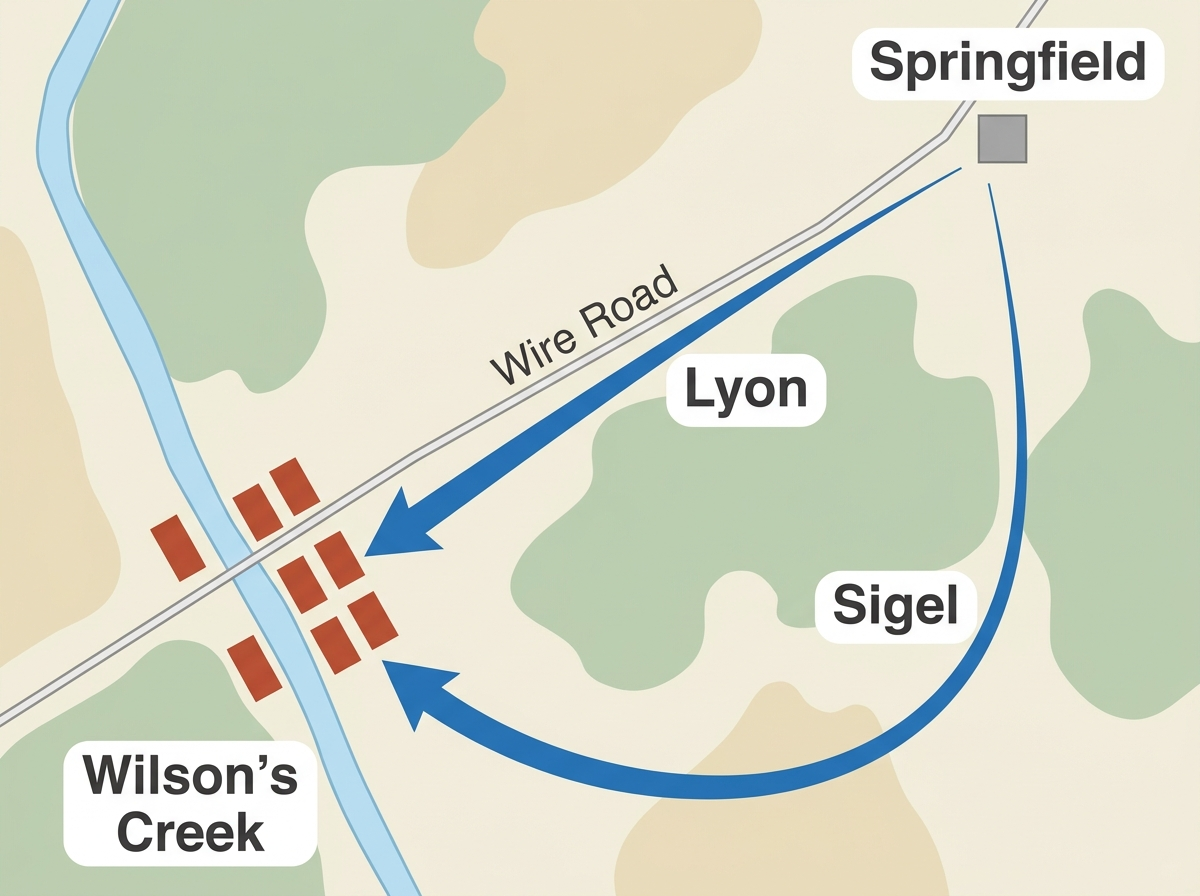
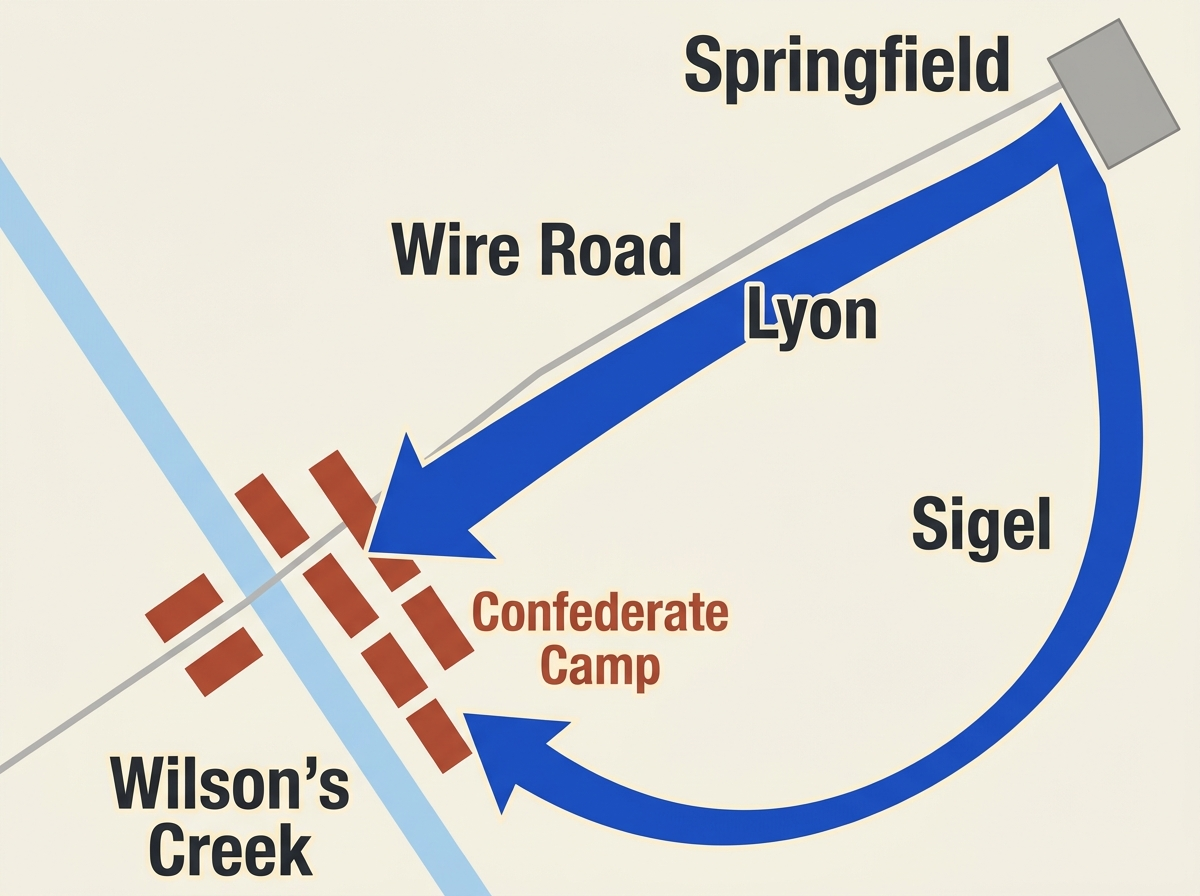
feat(war): drop white-box map labels — no-box filled style (Wilson's Creek)
Restyle the Gemini schematic maps to match the establishing map: bold dark
filled labels with only a thin cream halo, NO white pill/box behind them (user:
the white box is too much). Updated the map-prompt style rule (#4) and regenerated
all 5 Wilson's Creek maps (campaign, plan, Bloody Hill, Sigel, withdrawal). All
verified legible.

diff --git a/map-prompts/war/wilsons-creek.md b/map-prompts/war/wilsons-creek.md
@@ -8,7 +8,7 @@ Battle maps in the clean modern textbook style (Hal Jespersen / NPS look). Gener
 1. **CLEAN MODERN CARTOGRAPHY** — pale parchment-white background (#f3eee2). Flat even fills only — NO paper texture, NO relief shading, NO 3-D, NO drop shadows, NO glow, NO noise.
 2. **Terrain = simple flat shapes in muted color**, only what the caption names: woods = soft sage-green; a hill/ridge/plateau = pale tan; a mountain range = a pale-tan band; water (river/creek/sea) = a flat light-blue band or fill; a road/trail = a thin gray line; a town, city, fort, church, house = a small gray block or dot.
 3. **Forces use side colors.** Union (North) = BLUE (#1d4ed8). Confederate (South) = RUST RED (#b44d3b). A force/line = crisp solid rectangular unit blocks; a movement = a bold smooth tapered arrow. No other strong colors. BLUE/RUST/RED name the INK, never text. Never render a color name as a label.
-4. **LABELS MUST BE LARGE, BOLD, AND EASY TO READ ON A PHONE** — this is critical. Use a HEAVY modern sans-serif at a GENEROUS size (think a clean textbook map seen on a small screen), DARK ink, each label sitting on a crisp solid white pill/halo so it stays sharp against the map. Prefer FEWER, BIGGER labels over many small ones. NO label may be small, thin, faint, or hard to read. Each label must read like a printed STICKER — BOLD near-black text inside a SOLID WHITE rounded box — NEVER thin, gray, or faint text floating directly on the terrain (that is the failure to avoid). Use SOLID, FILLED glyphs — NEVER outlined, hollow, or stroked-only letterforms; OUTLINED text is illegible and is the exact failure to avoid. At most SIX labels per map. Bare proper names only, spelled EXACTLY as written; add NO unlisted label and print NO color words.
+4. **LABELS MUST BE LARGE, BOLD, AND EASY TO READ ON A PHONE** — this is critical. Use a HEAVY modern sans-serif at a GENEROUS size (think a clean textbook map seen on a small screen) in DARK, near-black ink, placed DIRECTLY ON THE MAP. Give each label only a thin soft cream halo hugging the letters (a narrow outline the colour of the pale background) for separation — do NOT draw a filled white box, pill, sticker, or rounded rectangle behind the text. Prefer FEWER, BIGGER labels over many small ones. NO label may be small, thin, faint, or gray. Use SOLID, FILLED glyphs — NEVER outlined, hollow, or stroked-only letterforms; hollow/outlined text is illegible and is the exact failure to avoid. Position each label over open, pale ground (not on top of arrows, water, or dark fills) so it reads cleanly without a box. At most SIX labels per map (more only if the map's own section explicitly lists them). Bare proper names only, spelled EXACTLY as written, upright (not italic or rotated); add NO unlisted label and print NO color words.
 5. **North is at the TOP, east to the RIGHT.** A defending line FACES the attack.
 6. **NO title bar, NO caption text, NO border/frame, NO compass rose, NO scale bar, NO legend, NO N/S/E/W letters, NO ornament.** The map bleeds off all four edges.
 
@@ -22,7 +22,7 @@ Draw the Missouri River as a flat light-blue band (UNLABELED) sweeping across th
 
 Draw Lyon's march as one bold BLUE arrow that starts at the right edge near the river, runs left (west) along the river past Jefferson City and Boonville, then curves down to Springfield, labeled "Lyon". Draw a SECOND, separate bold BLUE arrow, lower in the frame, that comes in from the right and sweeps down and left to Carthage and on toward Springfield, labeled "Sigel". Draw a bold RUST-RED arrow coming up from the bottom edge (out of Arkansas to the south) to the Wilson's Creek cluster, labeled "McCulloch".
 
-Eight labels: Jefferson City, Boonville, Springfield, Wilson's Creek, Carthage, Lyon, Sigel, McCulloch. No others, and print no color words. Keep them big, bold, and well-separated so none crowd or overlap. EVERY label, including the arrow labels "Lyon", "Sigel", and "McCulloch", MUST sit inside its own solid white rounded pill exactly like the town labels — no bare text floating on the terrain, and keep all label text upright (not italic or rotated).
+Eight labels: Jefferson City, Boonville, Springfield, Wilson's Creek, Carthage, Lyon, Sigel, McCulloch. No others, and print no color words. Keep them big, bold, upright, and well-separated so none crowd or overlap. Label the arrows ("Lyon", "Sigel", "McCulloch") the same way as the towns: solid filled dark text with only a thin cream halo, no white box behind any label.
 
 ## Map wilsons-creek-plan
 
